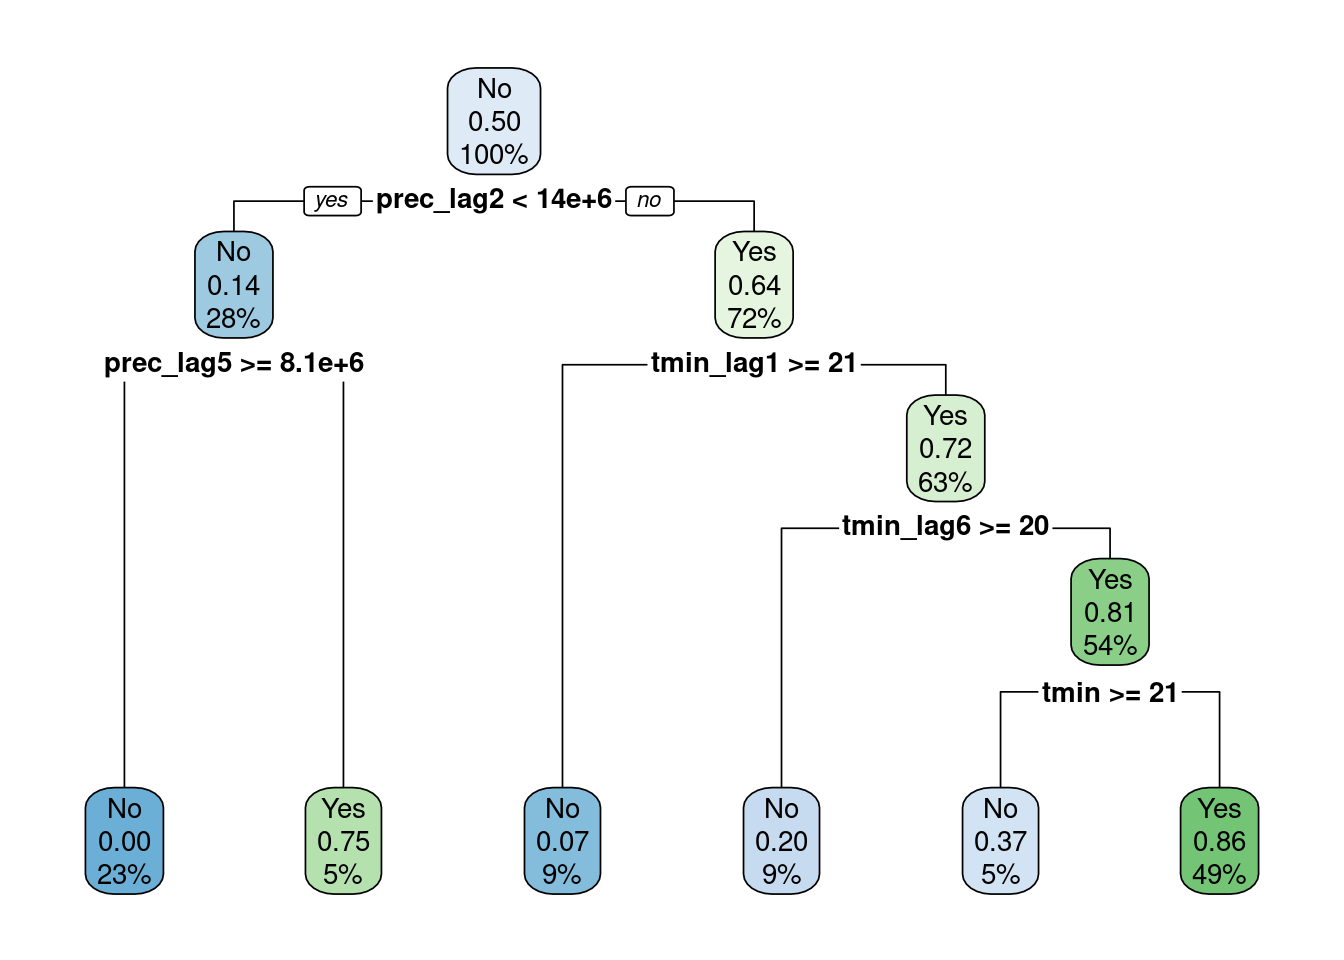
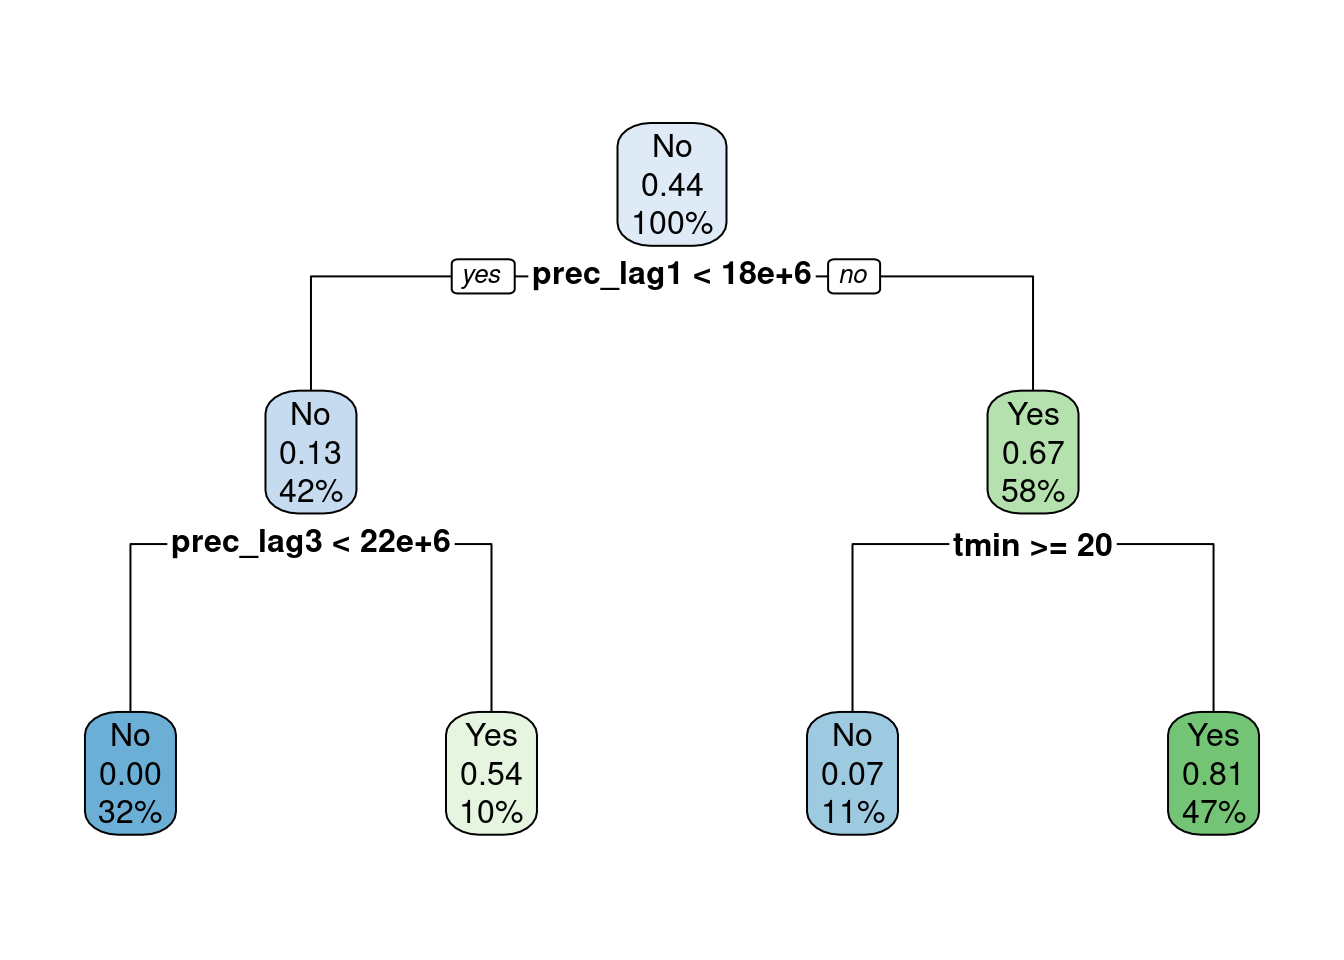
Set seed

diff --git a/docs/dengue-model/dengue_weather_lag_class_v2.html b/docs/dengue-model/dengue_weather_lag_class_v2.html
@@ -588,7 +588,7 @@ gtag('config', 'G-ZMP18L536K', { 'anonymize_ip': true});
   <li><a href="#learners" id="toc-learners" class="nav-link" data-scroll-target="#learners">Learners</a></li>
   <li><a href="#folding" id="toc-folding" class="nav-link" data-scroll-target="#folding">Folding</a></li>
   <li><a href="#workflow-setting" id="toc-workflow-setting" class="nav-link" data-scroll-target="#workflow-setting">Workflow setting</a></li>
-  <li><a href="#hyper-parameter-tuning" id="toc-hyper-parameter-tuning" class="nav-link" data-scroll-target="#hyper-parameter-tuning">Hyper-parameter tuning</a></li>
+  <li><a href="#tuning" id="toc-tuning" class="nav-link" data-scroll-target="#tuning">Tuning</a></li>
   <li><a href="#best-workflow-and-model-selection" id="toc-best-workflow-and-model-selection" class="nav-link" data-scroll-target="#best-workflow-and-model-selection">Best workflow and model selection</a></li>
   <li><a href="#finalize-workflow" id="toc-finalize-workflow" class="nav-link" data-scroll-target="#finalize-workflow">Finalize workflow</a></li>
   </ul></li>
@@ -625,7 +625,7 @@ gtag('config', 'G-ZMP18L536K', { 'anonymize_ip': true});
     <div>
     <div class="quarto-title-meta-heading">Last modification</div>
     <div class="quarto-title-meta-contents">
-      <p class="date">January 24, 2024 | 15:13:27 +01:00</p>
+      <p class="date">January 24, 2024 | 15:32:15 +01:00</p>
     </div>
   </div>
   
@@ -768,8 +768,8 @@ gtag('config', 'G-ZMP18L536K', { 'anonymize_ip': true});
 <div class="sourceCode cell-code" id="cb13"><pre class="sourceCode r code-with-copy"><code class="sourceCode r"><span id="cb13-1"><a href="#cb13-1" aria-hidden="true" tabindex="-1"></a><span class="fu">head</span>(res_prep) <span class="sc">%&gt;%</span> <span class="fu">datatable</span>()</span></code><button title="Copy to Clipboard" class="code-copy-button"><i class="bi"></i></button></pre></div>
 <div class="cell-output-display">
 
-<div class="datatables html-widget html-fill-item" id="htmlwidget-60ec32ebaf19d020451d" style="width:100%;height:auto;"></div>
-<script type="application/json" data-for="htmlwidget-60ec32ebaf19d020451d">{"x":{"filter":"none","vertical":false,"data":[["1","2","3","4","5","6"],["Yes","No","No","No","Yes","Yes"],[26.72544769395087,28.43298173165642,29.60773389586817,29.49653405719427,29.34070379908771,30.49403274560354],[15.18916207733414,15.90763421604706,16.4951430635698,18.85585107572839,18.8123191876364,19.79762454912082],[7814524.978378296,6506432.747368097,5800428.126594543,17873537.89751434,18058934.51061773,20740964.07329464],[26.17385351467693,26.72544769395087,28.43298173165642,29.60773389586817,29.49653405719427,29.34070379908771],[14.96317995583027,15.18916207733414,15.90763421604706,16.4951430635698,18.85585107572839,18.8123191876364],[8046288.766040802,7814524.978378296,6506432.747368097,5800428.126594543,17873537.89751434,18058934.51061773],[26.8724566848724,26.17385351467693,26.72544769395087,28.43298173165642,29.60773389586817,29.49653405719427],[16.7187942733731,14.96317995583027,15.18916207733414,15.90763421604706,16.4951430635698,18.85585107572839],[13694424.00654602,8046288.766040802,7814524.978378296,6506432.747368097,5800428.126594543,17873537.89751434],[28.9565583609528,26.8724566848724,26.17385351467693,26.72544769395087,28.43298173165642,29.60773389586817],[19.03550848089506,16.7187942733731,14.96317995583027,15.18916207733414,15.90763421604706,16.4951430635698],[22400879.77679062,13694424.00654602,8046288.766040802,7814524.978378296,6506432.747368097,5800428.126594543],[29.35255993066393,28.9565583609528,26.8724566848724,26.17385351467693,26.72544769395087,28.43298173165642],[20.22448844413397,19.03550848089506,16.7187942733731,14.96317995583027,15.18916207733414,15.90763421604706],[30775654.30288982,22400879.77679062,13694424.00654602,8046288.766040802,7814524.978378296,6506432.747368097],[30.56590001543757,29.35255993066393,28.9565583609528,26.8724566848724,26.17385351467693,26.72544769395087],[20.71001601205695,20.22448844413397,19.03550848089506,16.7187942733731,14.96317995583027,15.18916207733414],[27648413.46569633,30775654.30288982,22400879.77679062,13694424.00654602,8046288.766040802,7814524.978378296],[30.51610272405794,30.56590001543757,29.35255993066393,28.9565583609528,26.8724566848724,26.17385351467693],[20.72152767214717,20.71001601205695,20.22448844413397,19.03550848089506,16.7187942733731,14.96317995583027],[29442223.41576958,27648413.46569633,30775654.30288982,22400879.77679062,13694424.00654602,8046288.766040802]],"container":"<table class=\"display\">\n  <thead>\n    <tr>\n      <th> <\/th>\n      <th>anomaly<\/th>\n      <th>tmax<\/th>\n      <th>tmin<\/th>\n      <th>prec<\/th>\n      <th>tmax_lag1<\/th>\n      <th>tmin_lag1<\/th>\n      <th>prec_lag1<\/th>\n      <th>tmax_lag2<\/th>\n      <th>tmin_lag2<\/th>\n      <th>prec_lag2<\/th>\n      <th>tmax_lag3<\/th>\n      <th>tmin_lag3<\/th>\n      <th>prec_lag3<\/th>\n      <th>tmax_lag4<\/th>\n      <th>tmin_lag4<\/th>\n      <th>prec_lag4<\/th>\n      <th>tmax_lag5<\/th>\n      <th>tmin_lag5<\/th>\n      <th>prec_lag5<\/th>\n      <th>tmax_lag6<\/th>\n      <th>tmin_lag6<\/th>\n      <th>prec_lag6<\/th>\n    <\/tr>\n  <\/thead>\n<\/table>","options":{"columnDefs":[{"className":"dt-right","targets":[2,3,4,5,6,7,8,9,10,11,12,13,14,15,16,17,18,19,20,21,22]},{"orderable":false,"targets":0},{"name":" ","targets":0},{"name":"anomaly","targets":1},{"name":"tmax","targets":2},{"name":"tmin","targets":3},{"name":"prec","targets":4},{"name":"tmax_lag1","targets":5},{"name":"tmin_lag1","targets":6},{"name":"prec_lag1","targets":7},{"name":"tmax_lag2","targets":8},{"name":"tmin_lag2","targets":9},{"name":"prec_lag2","targets":10},{"name":"tmax_lag3","targets":11},{"name":"tmin_lag3","targets":12},{"name":"prec_lag3","targets":13},{"name":"tmax_lag4","targets":14},{"name":"tmin_lag4","targets":15},{"name":"prec_lag4","targets":16},{"name":"tmax_lag5","targets":17},{"name":"tmin_lag5","targets":18},{"name":"prec_lag5","targets":19},{"name":"tmax_lag6","targets":20},{"name":"tmin_lag6","targets":21},{"name":"prec_lag6","targets":22}],"order":[],"autoWidth":false,"orderClasses":false}},"evals":[],"jsHooks":[]}</script>
+<div class="datatables html-widget html-fill-item" id="htmlwidget-51ceb350b71c8fad2576" style="width:100%;height:auto;"></div>
+<script type="application/json" data-for="htmlwidget-51ceb350b71c8fad2576">{"x":{"filter":"none","vertical":false,"data":[["1","2","3","4","5","6"],["Yes","No","No","No","Yes","Yes"],[26.72544769395087,28.43298173165642,29.60773389586817,29.49653405719427,29.34070379908771,30.49403274560354],[15.18916207733414,15.90763421604706,16.4951430635698,18.85585107572839,18.8123191876364,19.79762454912082],[7814524.978378296,6506432.747368097,5800428.126594543,17873537.89751434,18058934.51061773,20740964.07329464],[26.17385351467693,26.72544769395087,28.43298173165642,29.60773389586817,29.49653405719427,29.34070379908771],[14.96317995583027,15.18916207733414,15.90763421604706,16.4951430635698,18.85585107572839,18.8123191876364],[8046288.766040802,7814524.978378296,6506432.747368097,5800428.126594543,17873537.89751434,18058934.51061773],[26.8724566848724,26.17385351467693,26.72544769395087,28.43298173165642,29.60773389586817,29.49653405719427],[16.7187942733731,14.96317995583027,15.18916207733414,15.90763421604706,16.4951430635698,18.85585107572839],[13694424.00654602,8046288.766040802,7814524.978378296,6506432.747368097,5800428.126594543,17873537.89751434],[28.9565583609528,26.8724566848724,26.17385351467693,26.72544769395087,28.43298173165642,29.60773389586817],[19.03550848089506,16.7187942733731,14.96317995583027,15.18916207733414,15.90763421604706,16.4951430635698],[22400879.77679062,13694424.00654602,8046288.766040802,7814524.978378296,6506432.747368097,5800428.126594543],[29.35255993066393,28.9565583609528,26.8724566848724,26.17385351467693,26.72544769395087,28.43298173165642],[20.22448844413397,19.03550848089506,16.7187942733731,14.96317995583027,15.18916207733414,15.90763421604706],[30775654.30288982,22400879.77679062,13694424.00654602,8046288.766040802,7814524.978378296,6506432.747368097],[30.56590001543757,29.35255993066393,28.9565583609528,26.8724566848724,26.17385351467693,26.72544769395087],[20.71001601205695,20.22448844413397,19.03550848089506,16.7187942733731,14.96317995583027,15.18916207733414],[27648413.46569633,30775654.30288982,22400879.77679062,13694424.00654602,8046288.766040802,7814524.978378296],[30.51610272405794,30.56590001543757,29.35255993066393,28.9565583609528,26.8724566848724,26.17385351467693],[20.72152767214717,20.71001601205695,20.22448844413397,19.03550848089506,16.7187942733731,14.96317995583027],[29442223.41576958,27648413.46569633,30775654.30288982,22400879.77679062,13694424.00654602,8046288.766040802]],"container":"<table class=\"display\">\n  <thead>\n    <tr>\n      <th> <\/th>\n      <th>anomaly<\/th>\n      <th>tmax<\/th>\n      <th>tmin<\/th>\n      <th>prec<\/th>\n      <th>tmax_lag1<\/th>\n      <th>tmin_lag1<\/th>\n      <th>prec_lag1<\/th>\n      <th>tmax_lag2<\/th>\n      <th>tmin_lag2<\/th>\n      <th>prec_lag2<\/th>\n      <th>tmax_lag3<\/th>\n      <th>tmin_lag3<\/th>\n      <th>prec_lag3<\/th>\n      <th>tmax_lag4<\/th>\n      <th>tmin_lag4<\/th>\n      <th>prec_lag4<\/th>\n      <th>tmax_lag5<\/th>\n      <th>tmin_lag5<\/th>\n      <th>prec_lag5<\/th>\n      <th>tmax_lag6<\/th>\n      <th>tmin_lag6<\/th>\n      <th>prec_lag6<\/th>\n    <\/tr>\n  <\/thead>\n<\/table>","options":{"columnDefs":[{"className":"dt-right","targets":[2,3,4,5,6,7,8,9,10,11,12,13,14,15,16,17,18,19,20,21,22]},{"orderable":false,"targets":0},{"name":" ","targets":0},{"name":"anomaly","targets":1},{"name":"tmax","targets":2},{"name":"tmin","targets":3},{"name":"prec","targets":4},{"name":"tmax_lag1","targets":5},{"name":"tmin_lag1","targets":6},{"name":"prec_lag1","targets":7},{"name":"tmax_lag2","targets":8},{"name":"tmin_lag2","targets":9},{"name":"prec_lag2","targets":10},{"name":"tmax_lag3","targets":11},{"name":"tmin_lag3","targets":12},{"name":"prec_lag3","targets":13},{"name":"tmax_lag4","targets":14},{"name":"tmin_lag4","targets":15},{"name":"prec_lag4","targets":16},{"name":"tmax_lag5","targets":17},{"name":"tmin_lag5","targets":18},{"name":"prec_lag5","targets":19},{"name":"tmax_lag6","targets":20},{"name":"tmin_lag6","targets":21},{"name":"prec_lag6","targets":22}],"order":[],"autoWidth":false,"orderClasses":false}},"evals":[],"jsHooks":[]}</script>
 </div>
 </div>
 </section>
@@ -792,8 +792,8 @@ gtag('config', 'G-ZMP18L536K', { 'anonymize_ip': true});
 <span id="cb15-2"><a href="#cb15-2" aria-hidden="true" tabindex="-1"></a><span class="fu">gc</span>()</span></code><button title="Copy to Clipboard" class="code-copy-button"><i class="bi"></i></button></pre></div>
 <div class="cell-output cell-output-stdout">
 <pre><code>          used  (Mb) gc trigger   (Mb)  max used   (Mb)
-Ncells 3036496 162.2    4447765  237.6   4447765  237.6
-Vcells 5285019  40.4  404031489 3082.6 679124110 5181.4</code></pre>
+Ncells 3036497 162.2    4447768  237.6   4447768  237.6
+Vcells 5285029  40.4  404031495 3082.6 679124120 5181.4</code></pre>
 </div>
 </div>
 </section>
@@ -890,23 +890,24 @@ Vcells 5285019  40.4  404031489 3082.6 679124110 5181.4</code></pre>
 <span id="cb24-14"><a href="#cb24-14" aria-hidden="true" tabindex="-1"></a>  )</span></code><button title="Copy to Clipboard" class="code-copy-button"><i class="bi"></i></button></pre></div>
 </div>
 </section>
-<section id="hyper-parameter-tuning" class="level3">
-<h3 class="anchored" data-anchor-id="hyper-parameter-tuning">Hyper-parameter tuning</h3>
+<section id="tuning" class="level3">
+<h3 class="anchored" data-anchor-id="tuning">Tuning</h3>
 <p>This step tune hyper-parameters from the models (learners and balancing steps) using an ANOVA race.</p>
 <div class="cell">
 <div class="sourceCode cell-code" id="cb25"><pre class="sourceCode r code-with-copy"><code class="sourceCode r"><span id="cb25-1"><a href="#cb25-1" aria-hidden="true" tabindex="-1"></a>tune_results <span class="ot">&lt;-</span> wf_set <span class="sc">%&gt;%</span></span>
 <span id="cb25-2"><a href="#cb25-2" aria-hidden="true" tabindex="-1"></a>  <span class="fu">workflow_map</span>(</span>
 <span id="cb25-3"><a href="#cb25-3" aria-hidden="true" tabindex="-1"></a>    <span class="st">"tune_race_anova"</span>,</span>
-<span id="cb25-4"><a href="#cb25-4" aria-hidden="true" tabindex="-1"></a>    <span class="at">resamples =</span> folds,</span>
-<span id="cb25-5"><a href="#cb25-5" aria-hidden="true" tabindex="-1"></a>    <span class="at">grid =</span> <span class="dv">50</span>,</span>
-<span id="cb25-6"><a href="#cb25-6" aria-hidden="true" tabindex="-1"></a>    <span class="at">control =</span> <span class="fu">control_race</span>(<span class="at">parallel_over =</span> <span class="st">"everything"</span>),</span>
-<span id="cb25-7"><a href="#cb25-7" aria-hidden="true" tabindex="-1"></a>    <span class="at">verbose =</span> <span class="cn">TRUE</span></span>
-<span id="cb25-8"><a href="#cb25-8" aria-hidden="true" tabindex="-1"></a>  )</span></code><button title="Copy to Clipboard" class="code-copy-button"><i class="bi"></i></button></pre></div>
+<span id="cb25-4"><a href="#cb25-4" aria-hidden="true" tabindex="-1"></a>    <span class="at">seed =</span> <span class="dv">345</span>,</span>
+<span id="cb25-5"><a href="#cb25-5" aria-hidden="true" tabindex="-1"></a>    <span class="at">resamples =</span> folds,</span>
+<span id="cb25-6"><a href="#cb25-6" aria-hidden="true" tabindex="-1"></a>    <span class="at">grid =</span> <span class="dv">50</span>,</span>
+<span id="cb25-7"><a href="#cb25-7" aria-hidden="true" tabindex="-1"></a>    <span class="at">control =</span> <span class="fu">control_race</span>(<span class="at">parallel_over =</span> <span class="st">"everything"</span>),</span>
+<span id="cb25-8"><a href="#cb25-8" aria-hidden="true" tabindex="-1"></a>    <span class="at">verbose =</span> <span class="cn">TRUE</span></span>
+<span id="cb25-9"><a href="#cb25-9" aria-hidden="true" tabindex="-1"></a>  )</span></code><button title="Copy to Clipboard" class="code-copy-button"><i class="bi"></i></button></pre></div>
 <div class="cell-output cell-output-stderr">
 <pre><code>i 1 of 8 tuning:     upsample_dt_rp</code></pre>
 </div>
 <div class="cell-output cell-output-stderr">
-<pre><code>✔ 1 of 8 tuning:     upsample_dt_rp (9.3s)</code></pre>
+<pre><code>✔ 1 of 8 tuning:     upsample_dt_rp (8.9s)</code></pre>
 </div>
 <div class="cell-output cell-output-stderr">
 <pre><code>i 2 of 8 tuning:     upsample_dt_pk</code></pre>
@@ -918,37 +919,37 @@ Vcells 5285019  40.4  404031489 3082.6 679124110 5181.4</code></pre>
 <pre><code>i 3 of 8 tuning:     rose_dt_rp</code></pre>
 </div>
 <div class="cell-output cell-output-stderr">
-<pre><code>✔ 3 of 8 tuning:     rose_dt_rp (7.6s)</code></pre>
+<pre><code>✔ 3 of 8 tuning:     rose_dt_rp (8.5s)</code></pre>
 </div>
 <div class="cell-output cell-output-stderr">
 <pre><code>i 4 of 8 tuning:     rose_dt_pk</code></pre>
 </div>
 <div class="cell-output cell-output-stderr">
-<pre><code>✔ 4 of 8 tuning:     rose_dt_pk (8.7s)</code></pre>
+<pre><code>✔ 4 of 8 tuning:     rose_dt_pk (8.5s)</code></pre>
 </div>
 <div class="cell-output cell-output-stderr">
 <pre><code>i 5 of 8 tuning:     smote_dt_rp</code></pre>
 </div>
 <div class="cell-output cell-output-stderr">
-<pre><code>✔ 5 of 8 tuning:     smote_dt_rp (8.7s)</code></pre>
+<pre><code>✔ 5 of 8 tuning:     smote_dt_rp (8.6s)</code></pre>
 </div>
 <div class="cell-output cell-output-stderr">
 <pre><code>i 6 of 8 tuning:     smote_dt_pk</code></pre>
 </div>
 <div class="cell-output cell-output-stderr">
-<pre><code>✔ 6 of 8 tuning:     smote_dt_pk (10.7s)</code></pre>
+<pre><code>✔ 6 of 8 tuning:     smote_dt_pk (9s)</code></pre>
 </div>
 <div class="cell-output cell-output-stderr">
 <pre><code>i 7 of 8 tuning:     adasyn_dt_rp</code></pre>
 </div>
 <div class="cell-output cell-output-stderr">
-<pre><code>✔ 7 of 8 tuning:     adasyn_dt_rp (6.8s)</code></pre>
+<pre><code>✔ 7 of 8 tuning:     adasyn_dt_rp (8.2s)</code></pre>
 </div>
 <div class="cell-output cell-output-stderr">
 <pre><code>i 8 of 8 tuning:     adasyn_dt_pk</code></pre>
 </div>
 <div class="cell-output cell-output-stderr">
-<pre><code>✔ 8 of 8 tuning:     adasyn_dt_pk (9.8s)</code></pre>
+<pre><code>✔ 8 of 8 tuning:     adasyn_dt_pk (7.6s)</code></pre>
 </div>
 </div>
 </section>
@@ -996,22 +997,18 @@ Vcells 5285019  40.4  404031489 3082.6 679124110 5181.4</code></pre>
 </div>
 <div class="cell-output cell-output-stdout">
 <pre><code>$obj
-n= 158 
+n= 126 
 
 node), split, n, loss, yval, (yprob)
       * denotes terminal node
 
- 1) root 158 79 No (0.50000000 0.50000000)  
-   2) prec_lag2&lt; 1.366627e+07 44  6 No (0.86363636 0.13636364)  
-     4) prec_lag5&gt;=8110662 36  0 No (1.00000000 0.00000000) *
-     5) prec_lag5&lt; 8110662 8  2 Yes (0.25000000 0.75000000) *
-   3) prec_lag2&gt;=1.366627e+07 114 41 Yes (0.35964912 0.64035088)  
-     6) tmin_lag1&gt;=20.62648 14  1 No (0.92857143 0.07142857) *
-     7) tmin_lag1&lt; 20.62648 100 28 Yes (0.28000000 0.72000000)  
-      14) tmin_lag6&gt;=20.35152 15  3 No (0.80000000 0.20000000) *
-      15) tmin_lag6&lt; 20.35152 85 16 Yes (0.18823529 0.81176471)  
-        30) tmin&gt;=20.51675 8  3 No (0.62500000 0.37500000) *
-        31) tmin&lt; 20.51675 77 11 Yes (0.14285714 0.85714286) *
+1) root 126 56 No (0.55555556 0.44444444)  
+  2) prec_lag1&lt; 1.757666e+07 53  7 No (0.86792453 0.13207547)  
+    4) prec_lag3&lt; 2.15922e+07 40  0 No (1.00000000 0.00000000) *
+    5) prec_lag3&gt;=2.15922e+07 13  6 Yes (0.46153846 0.53846154) *
+  3) prec_lag1&gt;=1.757666e+07 73 24 Yes (0.32876712 0.67123288)  
+    6) tmin&gt;=20.49815 14  1 No (0.92857143 0.07142857) *
+    7) tmin&lt; 20.49815 59 11 Yes (0.18644068 0.81355932) *
 
 $snipped.nodes
 NULL
@@ -1020,85 +1017,67 @@ $xlim
 [1] 0 1
 
 $ylim
-[1] 0 1
+[1] -0.1  1.1
 
 $x
- [1] 0.34832615 0.12664899 0.03331124 0.21998674 0.57000331 0.40666225
- [7] 0.73334438 0.59333775 0.87335101 0.78001326 0.96668876
+[1] 0.50000000 0.19230097 0.03845145 0.34615048 0.80769903 0.65384952 0.96154855
 
 $y
- [1] 0.92656505 0.72655748 0.04653176 0.04653176 0.72655748 0.04653176
- [7] 0.52654992 0.04653176 0.32654235 0.04653176 0.04653176
+[1] 0.91688926 0.52408966 0.05273014 0.05273014 0.52408966 0.05273014 0.05273014
 
 $branch.x
-       [,1]      [,2]       [,3]      [,4]      [,5]      [,6]      [,7]
-x 0.3483262 0.1266490 0.03331124 0.2199867 0.5700033 0.4066622 0.7333444
-         NA 0.1266490 0.03331124 0.2199867 0.5700033 0.4066622 0.7333444
-         NA 0.3483262 0.12664899 0.1266490 0.3483262 0.5700033 0.5700033
-       [,8]      [,9]     [,10]     [,11]
-x 0.5933378 0.8733510 0.7800133 0.9666888
-  0.5933378 0.8733510 0.7800133 0.9666888
-  0.7333444 0.7333444 0.8733510 0.8733510
+  [,1]     [,2]       [,3]      [,4]     [,5]      [,6]      [,7]
+x  0.5 0.192301 0.03845145 0.3461505 0.807699 0.6538495 0.9615485
+    NA 0.192301 0.03845145 0.3461505 0.807699 0.6538495 0.9615485
+    NA 0.500000 0.19230097 0.1923010 0.500000 0.8076990 0.8076990
 
 $branch.y
       [,1]      [,2]      [,3]      [,4]      [,5]      [,6]      [,7]
-y 1.003897 0.8038890 0.1238633 0.1238633 0.8038890 0.1238633 0.6038814
-        NA 0.8409672 0.6409597 0.6409597 0.8409672 0.6409597 0.6409597
-        NA 0.8409672 0.6409597 0.6409597 0.8409672 0.6409597 0.6409597
-       [,8]      [,9]     [,10]     [,11]
-y 0.1238633 0.4038739 0.1238633 0.1238633
-  0.4409521 0.4409521 0.2409445 0.2409445
-  0.4409521 0.4409521 0.2409445 0.2409445
+y 1.023862 0.6310625 0.1597030 0.1597030 0.6310625 0.1597030 0.1597030
+        NA 0.7987643 0.4059647 0.4059647 0.7987643 0.4059647 0.4059647
+        NA 0.7987643 0.4059647 0.4059647 0.7987643 0.4059647 0.4059647
 
 $labs
- [1] "No\n0.50\n100%" "No\n0.14\n28%"  "No\n0.00\n23%"  "Yes\n0.75\n5%" 
- [5] "Yes\n0.64\n72%" "No\n0.07\n9%"   "Yes\n0.72\n63%" "No\n0.20\n9%"  
- [9] "Yes\n0.81\n54%" "No\n0.37\n5%"   "Yes\n0.86\n49%"
+[1] "No\n0.44\n100%" "No\n0.13\n42%"  "No\n0.00\n32%"  "Yes\n0.54\n10%"
+[5] "Yes\n0.67\n58%" "No\n0.07\n11%"  "Yes\n0.81\n47%"
 
 $cex
-[1] 0.865625
+[1] 1
 
 $boxes
 $boxes$x1
- [1] 3.086955e-01 9.341035e-02 7.259996e-05 1.876004e-01 5.367647e-01
- [6] 3.742759e-01 7.001057e-01 5.609514e-01 8.401124e-01 7.476269e-01
-[11] 9.334501e-01
+[1]  0.4535511364  0.1535225590 -0.0003269569  0.3073720750  0.7689206228
+[6]  0.6150711069  0.9227701387
 
 $boxes$y1
- [1]  0.87369005  0.67368248 -0.00634324 -0.00634324  0.67368248 -0.00634324
- [7]  0.47367492 -0.00634324  0.27366735 -0.00634324 -0.00634324
+[1]  0.84366644  0.45086684 -0.02049268 -0.02049268  0.45086684 -0.02049268
+[7] -0.02049268
 
 $boxes$x2
- [1] 0.38795683 0.15988763 0.06654987 0.25237311 0.60324195 0.43904861
- [7] 0.76658302 0.62572412 0.90658965 0.81239962 0.99992740
+[1] 0.54644886 0.23107938 0.07722986 0.38492889 0.84647744 0.69262793 1.00032696
 
 $boxes$y2
- [1] 1.0038966 0.8038890 0.1238633 0.1238633 0.8038890 0.1238633 0.6038814
- [8] 0.1238633 0.4038739 0.1238633 0.1238633
+[1] 1.0238621 0.6310625 0.1597030 0.1597030 0.6310625 0.1597030 0.1597030
 
 
 $split.labs
 [1] ""
 
 $split.cex
- [1] 1 1 1 1 1 1 1 1 1 1 1
+[1] 1 1 1 1 1 1 1
 
 $split.box
 $split.box$x1
- [1] 0.237956834 0.006052398          NA          NA 0.471991951          NA
- [7] 0.635333018          NA 0.805169193          NA          NA
+[1] 0.3691761 0.0614771        NA        NA 0.7280115        NA        NA
 
 $split.box$y1
- [1] 0.8165107 0.6165031        NA        NA 0.6165031        NA 0.4164956
- [8]        NA 0.2164880        NA        NA
+[1] 0.7650143 0.3722147        NA        NA 0.3722147        NA        NA
 
 $split.box$x2
- [1] 0.4586955 0.2472456        NA        NA 0.6680147        NA 0.8313557
- [8]        NA 0.9415328        NA        NA
+[1] 0.6308239 0.3231248        NA        NA 0.8873865        NA        NA
 
 $split.box$y2
- [1] 0.8654237 0.6654162        NA        NA 0.6654162        NA 0.4654086
- [8]        NA 0.2654010        NA        NA</code></pre>
+[1] 0.8325143 0.4397147        NA        NA 0.4397147        NA        NA</code></pre>
 </div>
 </div>
 </section>
@@ -1110,8 +1089,8 @@ $split.box$y2
 <div class="cell-output cell-output-stdout">
 <pre><code>          Truth
 Prediction No Yes
-       No  18   1
-       Yes  6   3</code></pre>
+       No  14   0
+       Yes 10   4</code></pre>
 </div>
 </div>
 </section>
@@ -1124,10 +1103,10 @@ Prediction No Yes
 <pre><code># A tibble: 4 × 3
   .metric     .estimator .estimate
   &lt;chr&gt;       &lt;chr&gt;          &lt;dbl&gt;
-1 accuracy    binary         0.75 
-2 kap         binary         0.329
-3 mn_log_loss binary        10.0  
-4 roc_auc     binary         0.203</code></pre>
+1 accuracy    binary         0.643
+2 kap         binary         0.286
+3 mn_log_loss binary        12.4  
+4 roc_auc     binary         0.177</code></pre>
 </div>
 </div>
 </section>

diff --git a/docs/summary.html b/docs/summary.html
@@ -609,7 +609,7 @@ gtag('config', 'G-ZMP18L536K', { 'anonymize_ip': true});
     </div>
 </div>
 <div class="list quarto-listing-default">
-<div class="quarto-post image-right" data-index="0" data-listing-date-sort="1706105607000" data-listing-file-modified-sort="1706105607172" data-listing-date-modified-sort="NaN" data-listing-reading-time-sort="6">
+<div class="quarto-post image-right" data-index="0" data-listing-date-sort="1706106735000" data-listing-file-modified-sort="1706106735218" data-listing-date-modified-sort="NaN" data-listing-reading-time-sort="6">
 <div class="thumbnail">
 <p><a href="./dengue-model/dengue_weather_lag_class_v2.html"> <p class="card-img-top"><img src="dengue-model/dengue_weather_lag_class_v2_files/figure-html/unnamed-chunk-5-1.png"  class="thumbnail-image card-img"/></p> </a></p>
 </div>
@@ -629,7 +629,7 @@ This notebook…
 <div class="metadata">
 <a href="./dengue-model/dengue_weather_lag_class_v2.html">
 <div class="listing-date">
-January 24, 2024 | 15:13:27 +01:00
+January 24, 2024 | 15:32:15 +01:00
 </div>
 <div class="listing-author">
 Raphael Saldanha

diff --git a/docs/dengue_model.html b/docs/dengue_model.html
@@ -607,7 +607,7 @@ gtag('config', 'G-ZMP18L536K', { 'anonymize_ip': true});
   </div>
 </div>
 <div class="list quarto-listing-default">
-<div class="quarto-post image-right" data-index="0" data-listing-date-sort="1706105607000" data-listing-file-modified-sort="1706105607172" data-listing-date-modified-sort="NaN" data-listing-reading-time-sort="6">
+<div class="quarto-post image-right" data-index="0" data-listing-date-sort="1706106735000" data-listing-file-modified-sort="1706106735218" data-listing-date-modified-sort="NaN" data-listing-reading-time-sort="6">
 <div class="thumbnail">
 <p><a href="./dengue-model/dengue_weather_lag_class_v2.html"> <p class="card-img-top"><img src="dengue-model/dengue_weather_lag_class_v2_files/figure-html/unnamed-chunk-5-1.png"  class="thumbnail-image card-img"/></p> </a></p>
 </div>
@@ -627,7 +627,7 @@ This notebook…
 <div class="metadata">
 <a href="./dengue-model/dengue_weather_lag_class_v2.html">
 <div class="listing-date">
-January 24, 2024 | 15:13:27 +01:00
+January 24, 2024 | 15:32:15 +01:00
 </div>
 <div class="listing-author">
 Raphael Saldanha
